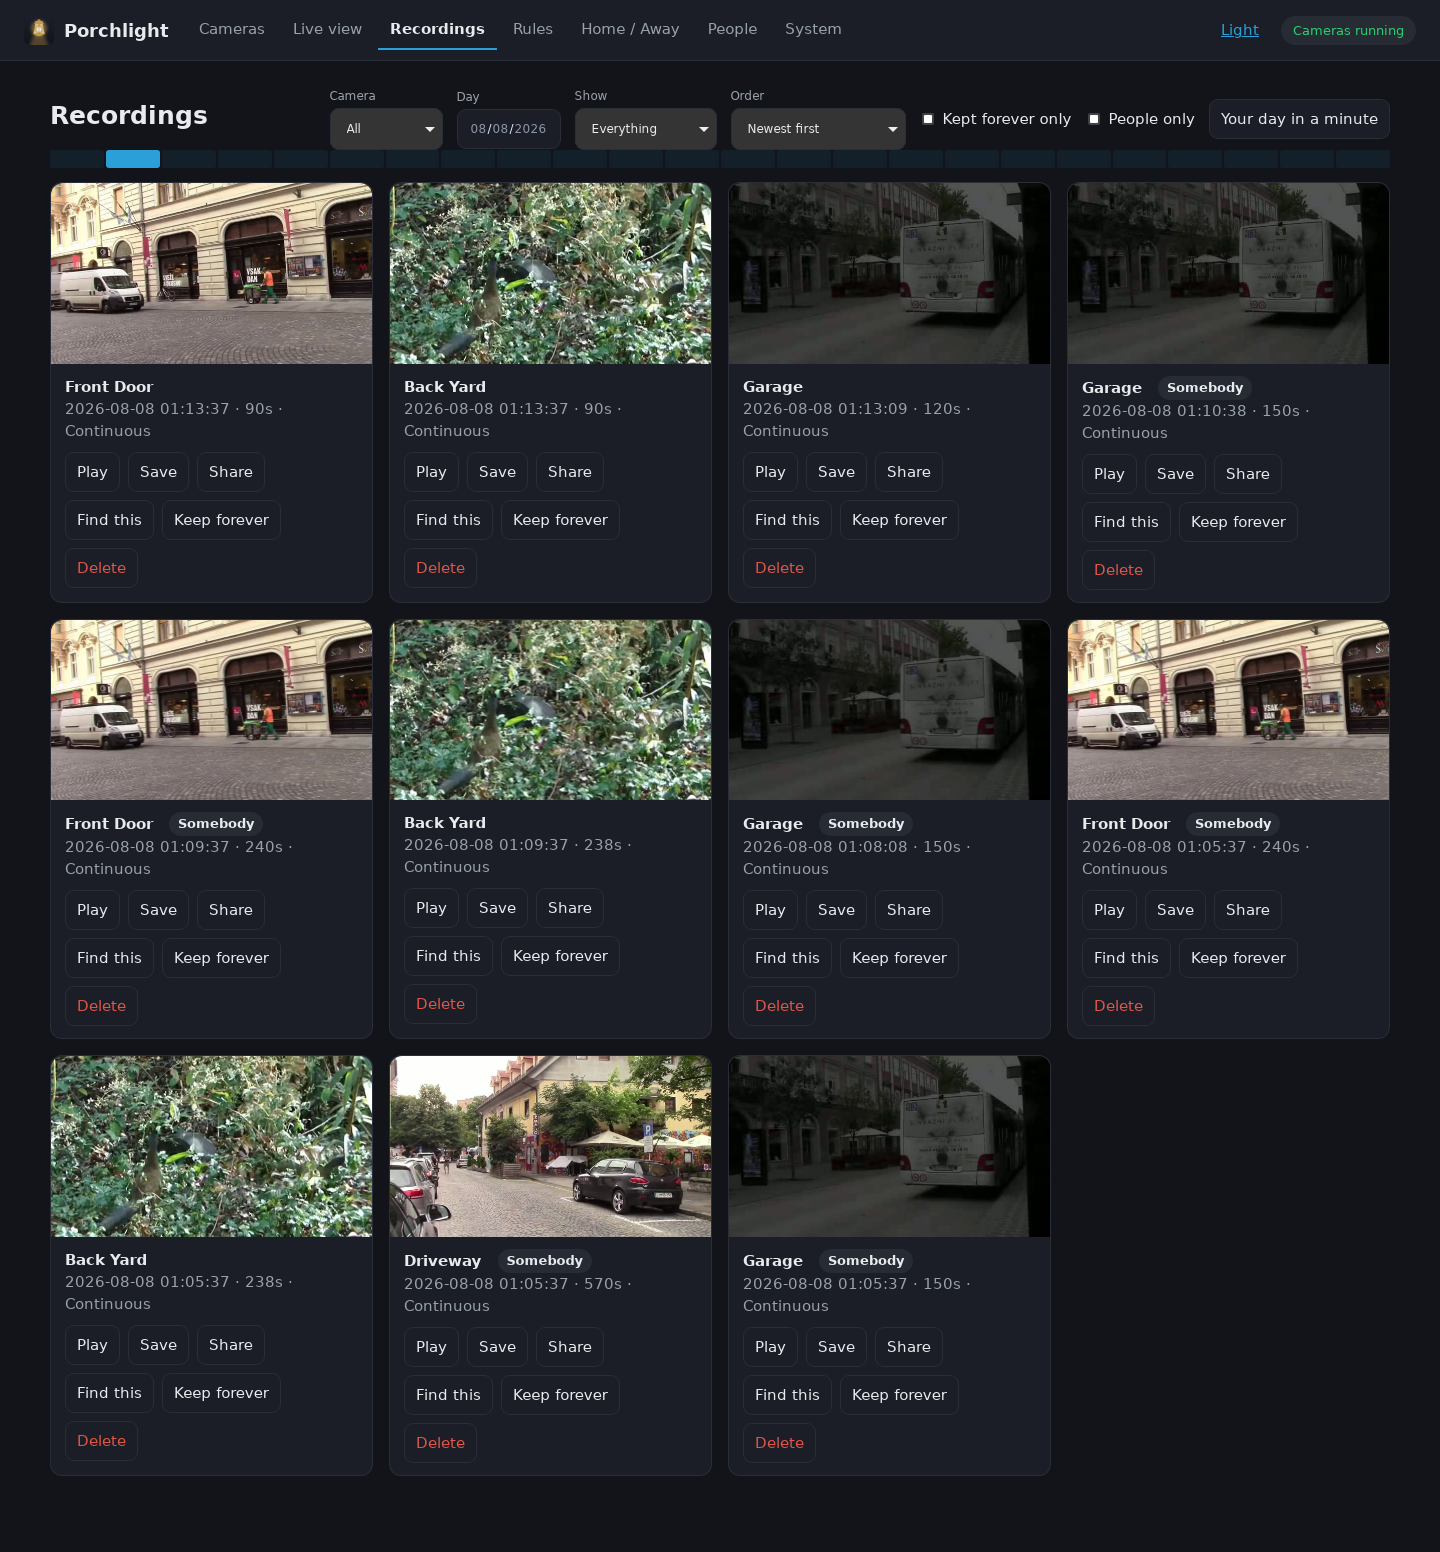
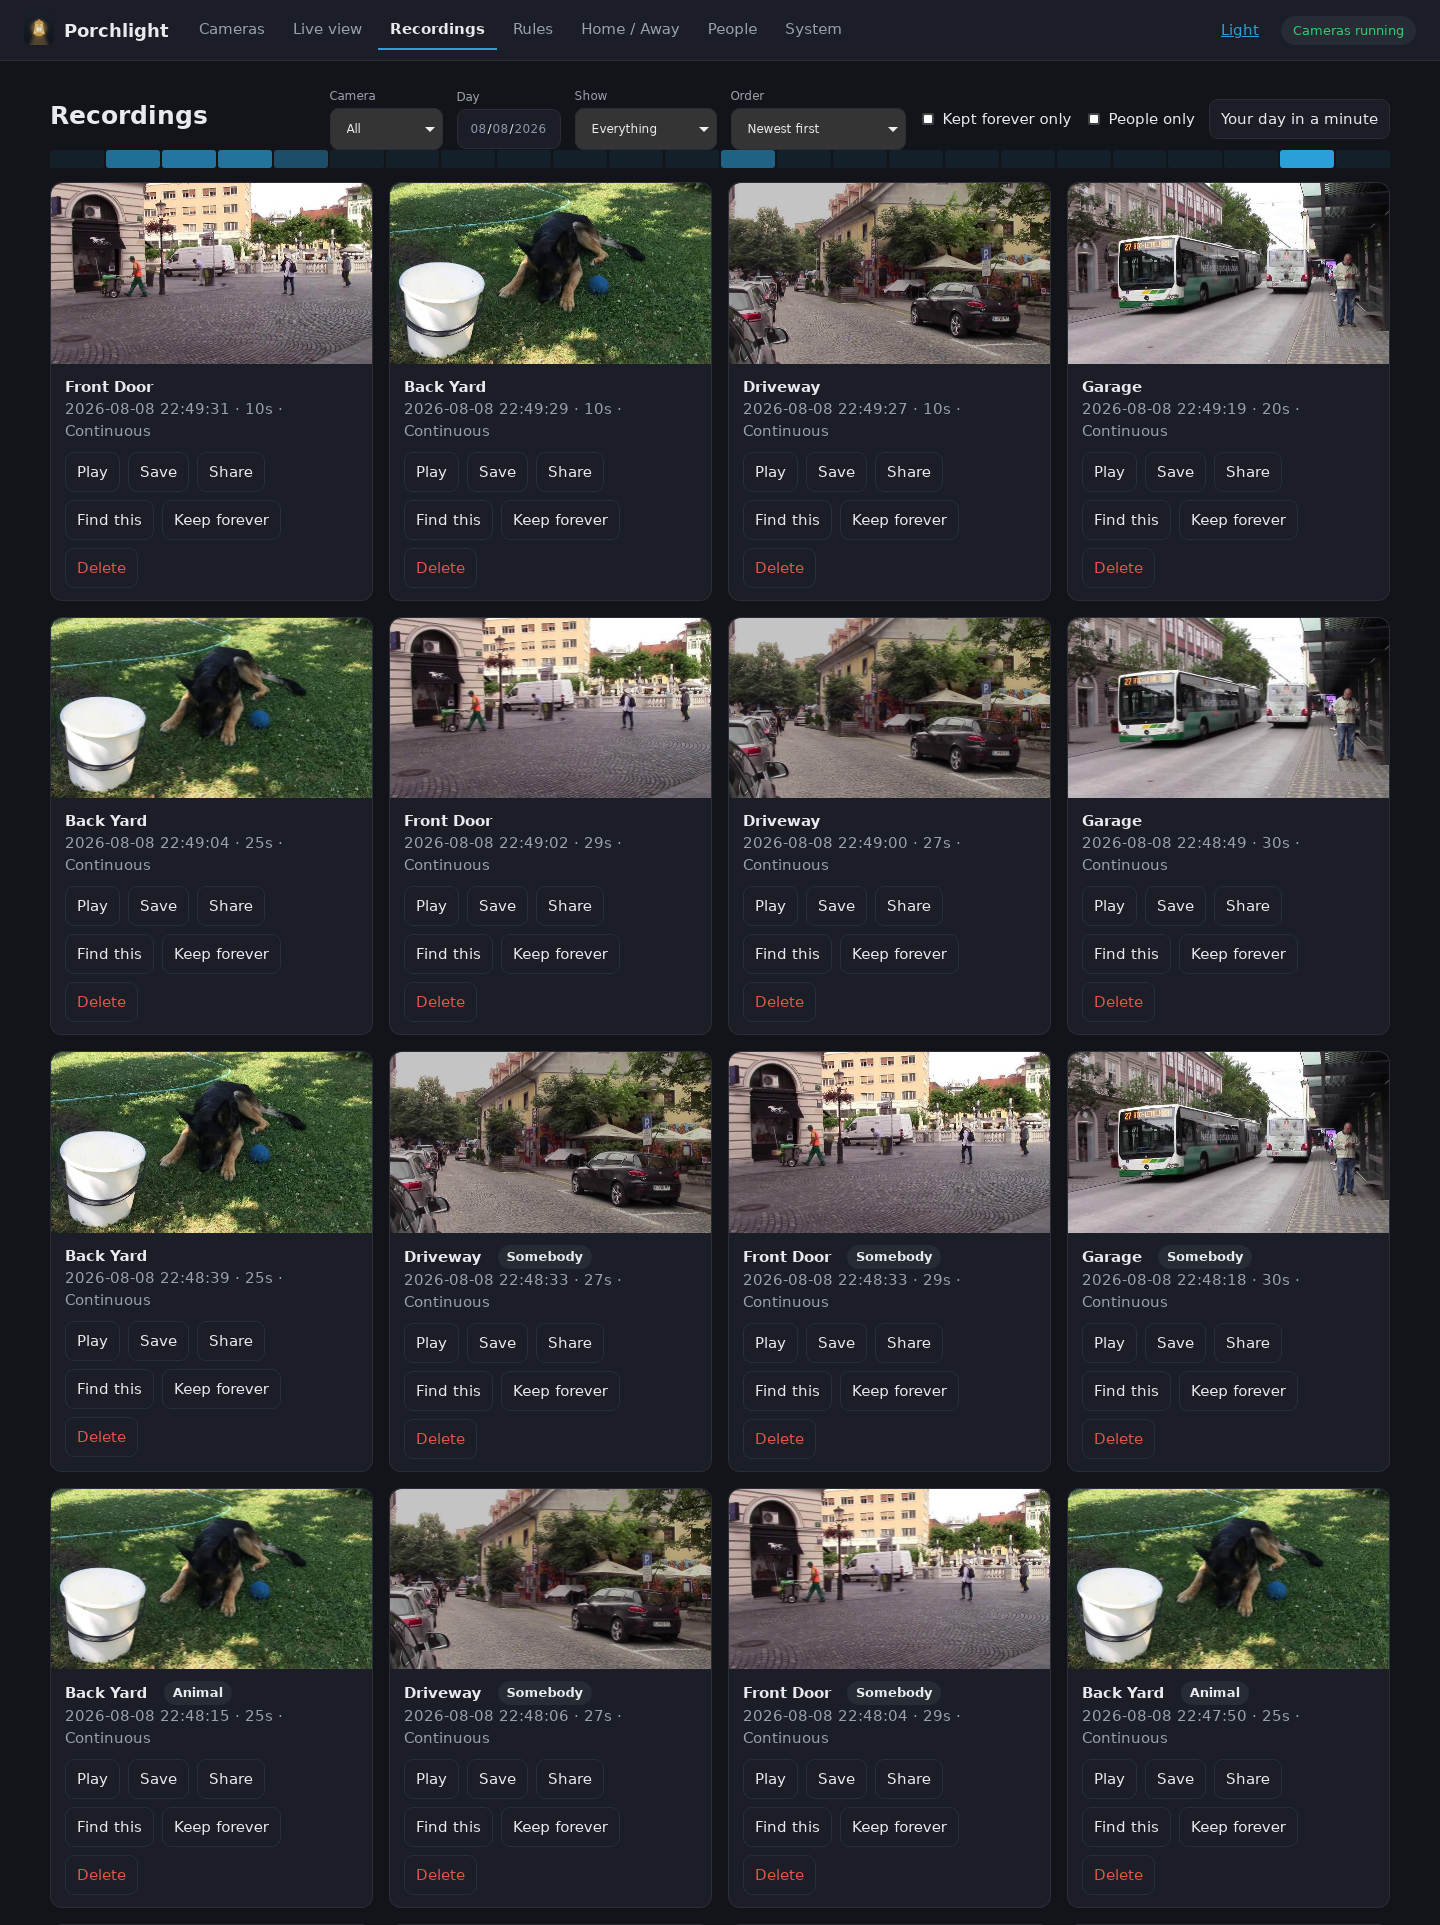
Read snapshots that carry two images, and shoot the new badges
ZoneMinder's snapshot can answer with more than one image. ffmpeg then decoded
two frames, the size check in _pixels rejected the buffer, and every such event
read as nobody -- the detector was silently off for them. One -frames:v 1 fixes
it, with an e2e check that a doubled JPEG still reads.

Screenshots redone: recordings now shows the Animal badge beside Somebody. The
Back Yard demo clip is a German shepherd (CC BY-SA 4.0, Shadster); the birds it
replaces sat on the detector's threshold.

diff --git a/e2e_drive.py b/e2e_drive.py
@@ -560,6 +560,21 @@ def person_in_demo():
 check("somebody in the demo clip is seen", person_in_demo)
 
 
+def two_image_snapshot():
+    """ZoneMinder's snapshot can carry two images; both used to read as nobody."""
+    clip = "/var/cache/zoneminder/demo/garage.mp4"
+    if not os.path.isfile(clip):
+        return
+    p = subprocess.run(["ffmpeg", "-v", "error", "-ss", "3", "-i", clip,
+                        "-frames:v", "1", "-f", "mjpeg", "-"], capture_output=True)
+    conf, _ = detect.person(p.stdout + p.stdout)
+    if conf < 0.35:
+        bad("a two-image snapshot read as nobody")
+
+
+check("a snapshot holding two images still reads", two_image_snapshot)
+
+
 def test_pattern_is_nobody():
     p = subprocess.run(["ffmpeg", "-v", "error", "-i",
                         "/var/cache/zoneminder/testsrc/a.mp4",
@@ -648,6 +663,10 @@ def background_scan():
     scanned = force_event(ids[0])
     if not scanned:
         bad("nothing recorded")
+    # Events left open by a killed zmc hold the scan back on purpose; close the
+    # ones this container collected so the check measures the scan, not them.
+    zmapi.sql("UPDATE Events SET EndDateTime=StartDateTime WHERE EndDateTime IS NULL"
+              " AND Id < %s" % zmapi.quote(scanned["id"]))
     os.makedirs(os.path.dirname(HIGHWATER), exist_ok=True)
     with open(HIGHWATER, "w") as fh:
         fh.write(str(int(scanned["id"]) - 1))

diff --git a/server/detect.py b/server/detect.py
@@ -37,7 +37,10 @@ def available():
 
 def _pixels(jpeg):
     """The picture as 416x416 BGR floats, decoded by ffmpeg (already a dep)."""
-    p = subprocess.run(["ffmpeg", "-v", "error", "-i", "-", "-vf", "scale=416:416",
+    # -frames:v 1: ZoneMinder's snapshot can carry more than one image, and a
+    # two-frame answer used to fail the size check below and read as "nobody".
+    p = subprocess.run(["ffmpeg", "-v", "error", "-i", "-", "-frames:v", "1",
+                        "-vf", "scale=416:416",
                         "-pix_fmt", "bgr24", "-f", "rawvideo", "-"],
                        input=jpeg, capture_output=True, timeout=30)
     if p.returncode or len(p.stdout) != 416 * 416 * 3:

diff --git a/README.md b/README.md
@@ -170,7 +170,7 @@ producing "Somebody".
 Porchlight runs on Debian and Ubuntu.
 
 ```sh
-sudo apt install ./porchlight_2.3_all.deb
+sudo apt install ./porchlight_2.3.1_all.deb
 porchlight
 ```
 
@@ -209,7 +209,7 @@ recordings, same database, linked from the System page.
 ### Development
 
 ```sh
-./build.sh                 # builds porchlight_2.3_all.deb
+./build.sh                 # builds porchlight_2.3.1_all.deb
 python3 test_api.py        # pure-logic checks, prints "ok"
 python3 e2e_drive.py       # full end-to-end run, needs a working ZoneMinder
 python3 shots.py OUTDIR    # demo data + the screenshots above (needs Xvfb)
@@ -217,8 +217,8 @@ python3 tools/make_icon.py porchlight.png logo48.png   # redraws the app icon
 ```
 
 The camera footage in the screenshots is freely licensed video from Wikimedia Commons
-(CC BY / public domain): three street scenes in Ljubljana and a house garden full of
-birds in Maracay.
+(CC BY / public domain / CC BY-SA 4.0): three street scenes in Ljubljana, and a German
+shepherd in a garden by Shadster.
 
 Two dead projects shaped this round. **zmeventnotification** (archived) is where the
 `detected:person(96%)` convention and MQTT event publishing come from, and
